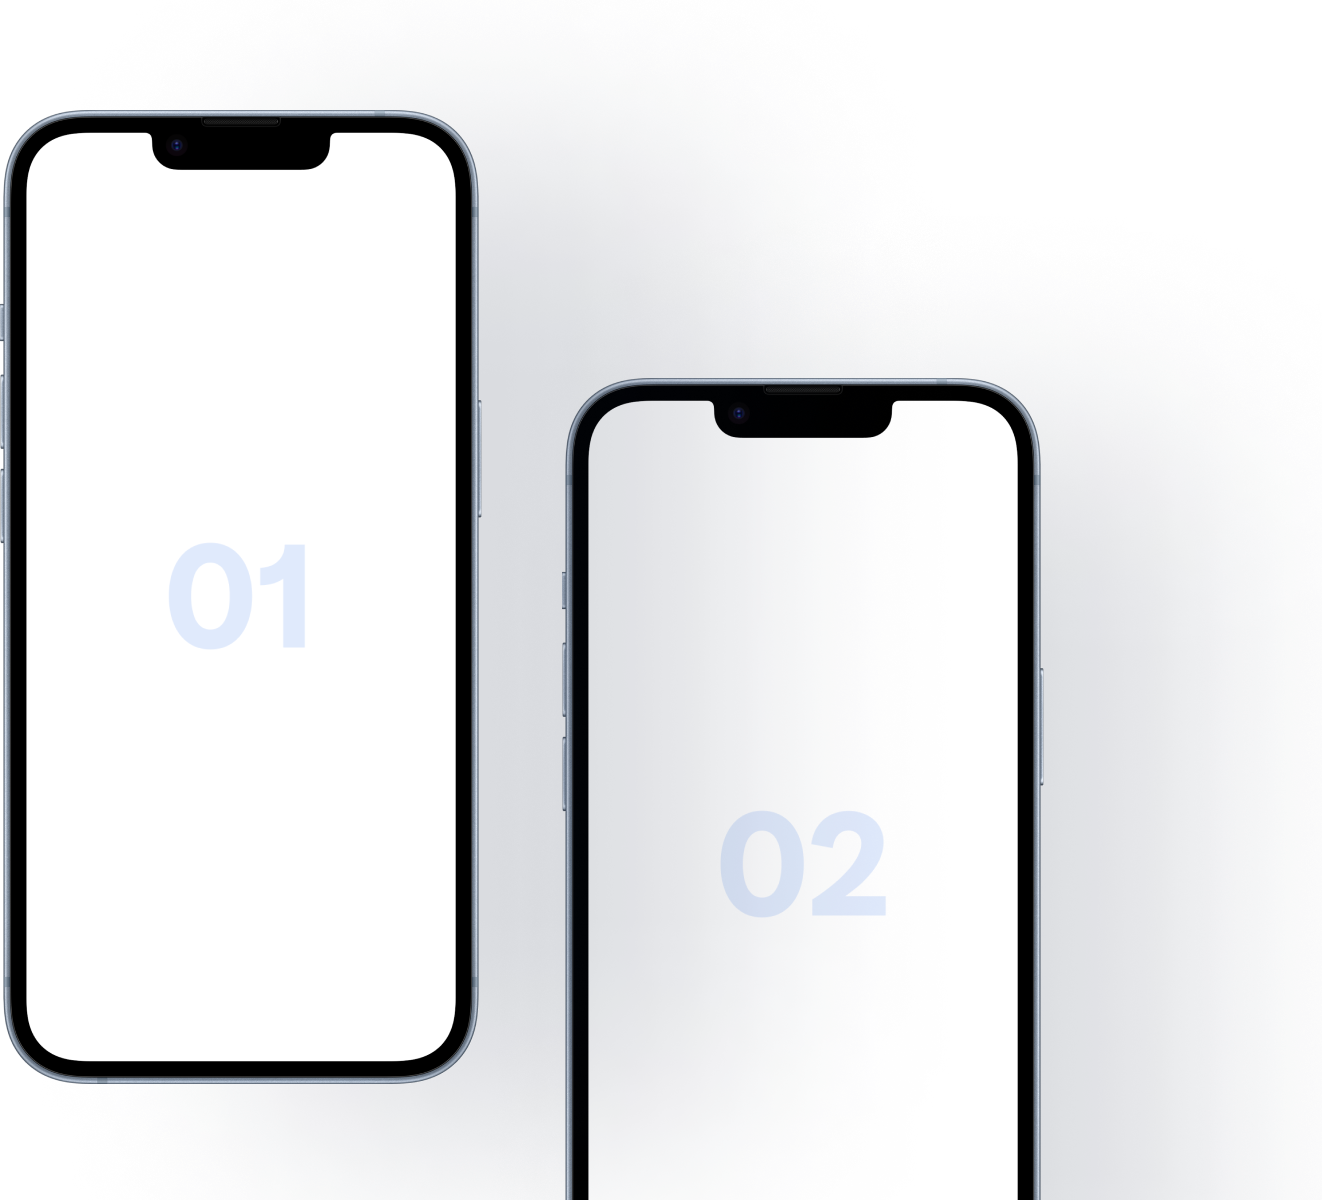
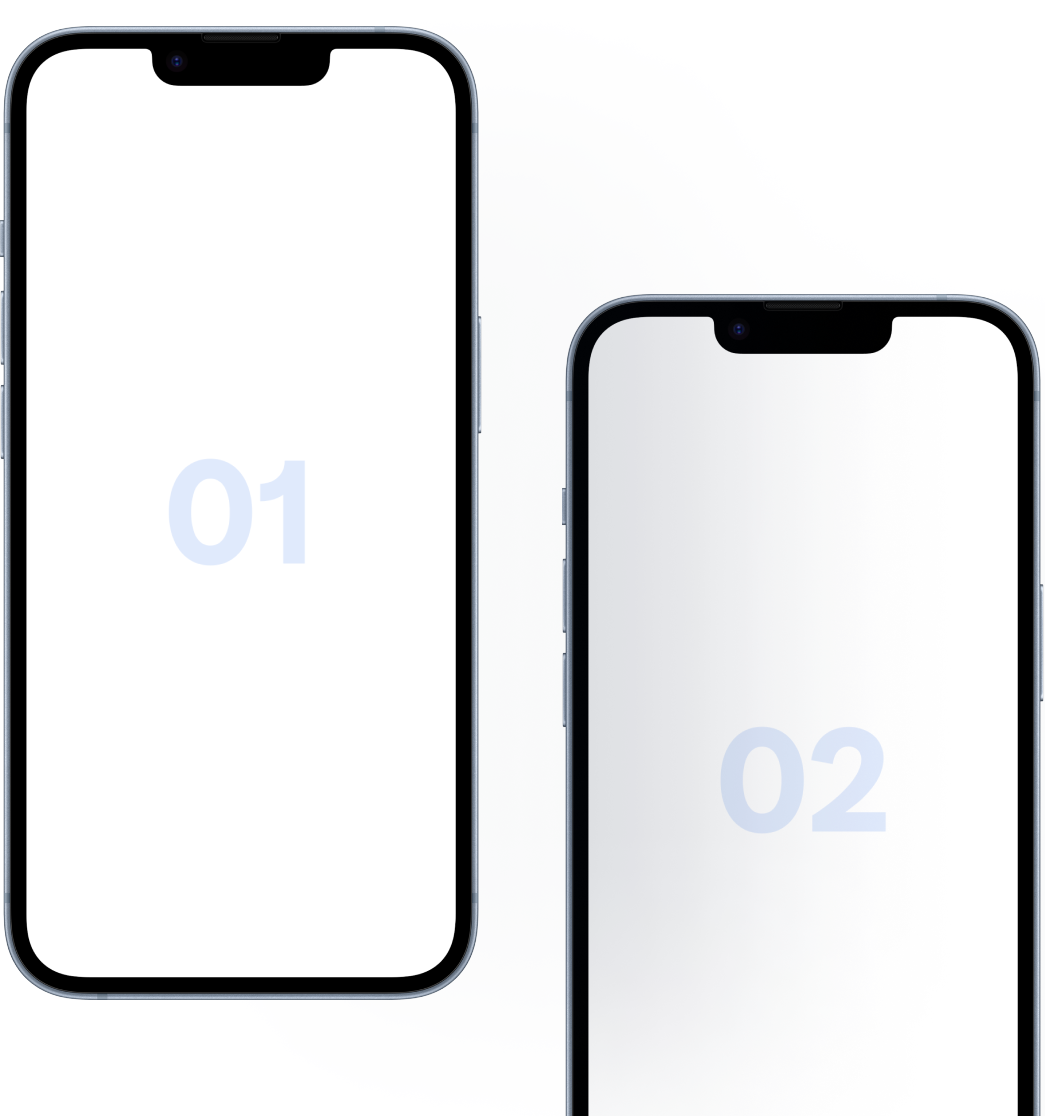
Login

Changed region(s): [[0.0, 0.0, 1.0, 1.0], [0.1225, 0.3961, 0.3062, 0.5484]]

diff --git a/src/pages/Auth/Login.jsx b/src/pages/Auth/Login.jsx
@@ -1,6 +1,83 @@
+import { useState } from "react";
+import { FaEye, FaEyeSlash } from "react-icons/fa";
+import { Link } from "react-router-dom";
+
 const Login = () => {
+
+  const [email, setEmail] = useState('');
+  const [password, setPassword] = useState('');
+  const [confirmPassword, setConfirmPassword] = useState('');
+  const [errors, setErrors] = useState('');
+  const [showPassword, setShowPassword] = useState(false);
+
+  const togglePasswordVisibility = () => {
+    setShowPassword(!showPassword);
+  };
+
+
   return (
-    <div>Login</div>
+    <div className="w-screen  flex p-3 h-screen min-h-[600px] overflow-hidden">
+      <div className="relative hidden md:flex md:w-1/3 h-full  bg-gray-200 rounded-xl overflow-hidden">
+        <h1 className="font-bold text-xl absolute top-5 left-6">core.</h1>
+        <img src="/assets/cards.png" alt="" className="absolute -bottom-28 left-[50%] -translate-x-1/2 rotate-90 w-[100%] max-w-[600px]" />
+      </div>
+      <div className="w-full md:w-2/3 flex flex-col items-center justify-center">
+        <h1 className="text-6xl font-bold">core.</h1>
+        <div className="mb-5">Please enter your details</div>
+        <form className="space-y-4 w-4/5 max-w-[400px]">
+          <div>
+            <label htmlFor="email" className="block text-sm font-medium text-gray-700">
+              Email
+            </label>
+            <input
+              type="email"
+              id="email"
+              value={email}
+              onChange={(e) => setEmail(e.target.value)}
+              className="mt-1 p-2 block w-full border border-gray-300 rounded-md shadow-sm focus:ring-indigo-500 focus:border-indigo-500 sm:text-sm"
+              placeholder="Enter your email"
+            />
+          </div>
+
+          <div className="relative">
+            <label htmlFor="password" className="block text-sm font-medium text-gray-700">
+              Password
+            </label>
+            <input
+              type={showPassword ? 'text' : 'password'}
+              id="password"
+              value={password}
+              onChange={(e) => setPassword(e.target.value)}
+              className="mt-1 p-2 block w-full border border-gray-300 rounded-md shadow-sm pr-10 focus:ring-indigo-500 focus:border-indigo-500 sm:text-sm"
+              placeholder="Enter your password"
+            />
+            {/* Show/Hide Password Icon (inside input box) */}
+            <button
+              type="button"
+              onClick={togglePasswordVisibility}
+              className="absolute h-max inset-y-0 right-0 flex items-center pr-3 focus:outline-none"
+            >
+              {showPassword ? <FaEyeSlash className="text-gray-500" /> : <FaEye className="text-gray-500" />}
+            </button>
+          </div>
+
+
+          {errors && (
+            <div className="text-red-600 text-sm">
+              {errors}
+            </div>
+          )}
+
+          <button
+            type="submit"
+            className="mt-6 w-full bg-black text-white p-3 rounded-md hover:bg-neutral-900 transition duration-200"
+          >
+            Sign Up
+          </button>
+          <div>Don't have an account yet? <Link className="text-green-600 font-bold" to={'/signup'}>Sign up.</Link></div>
+        </form>
+      </div>
+    </div>
   )
 }
 

diff --git a/src/pages/Auth/Signup.jsx b/src/pages/Auth/Signup.jsx
@@ -4,7 +4,6 @@ import { Link } from "react-router-dom";
 
 const Signup = () => {
 
-  const [username, setUsername] = useState('');
   const [email, setEmail] = useState('');
   const [password, setPassword] = useState('');
   const [confirmPassword, setConfirmPassword] = useState('');
@@ -19,26 +18,12 @@ const Signup = () => {
   return (
     <div className="w-screen  flex p-3 h-screen min-h-[600px] overflow-hidden">
       <div className="relative hidden md:flex md:w-1/3 h-full  bg-gray-200 rounded-xl overflow-hidden">
-        <h1 className="font-bold text-lg absolute top-5 left-6">core.</h1>
-        <img src="/assets/mockup.png" alt="" className="absolute bottom-0 w-[125%] max-w-[500px] left-10"/>
+        <h1 className="font-bold text-xl absolute top-5 left-6">core.</h1>
+        <img src="/assets/mockup.png" alt="" className="absolute bottom-0 w-[85%] max-w-[500px] left-[50%] -translate-x-1/2" />
       </div>
       <div className="w-full md:w-2/3 flex flex-col items-center justify-center">
         <h1 className="text-6xl font-bold mb-5">core.</h1>
         <form className="space-y-4 w-4/5 max-w-[400px]">
-          <div>
-            <label htmlFor="username" className="block text-sm font-medium text-gray-700">
-              Username
-            </label>
-            <input
-              type="text"
-              id="username"
-              value={username}
-              onChange={(e) => setUsername(e.target.value)}
-              className="mt-1 p-2 block w-full border border-gray-300 rounded-md shadow-sm focus:ring-indigo-500 focus:border-indigo-500 sm:text-sm"
-              placeholder="Enter your username"
-            />
-          </div>
-
           <div>
             <label htmlFor="email" className="block text-sm font-medium text-gray-700">
               Email

diff --git a/src/components/Navbar.jsx b/src/components/Navbar.jsx
@@ -1,0 +1,32 @@
+import React from 'react'
+import { NavLink } from 'react-router-dom'
+
+const Navbar = () => {
+  return (
+    <header className='py-4 w-full'>
+        <div className="wrapper max-w-[85%] mx-auto flex items-center justify-between">
+            <h1 className="text-4xl font-bold ">core.</h1>
+
+            <nav >
+                <ul className='flex items-center gap-4'>
+                    <NavLink to={'/'}>Home</NavLink>
+                    <NavLink to={'about'}>About</NavLink>
+                    <NavLink to={'contact'}>Contact</NavLink>
+                    <NavLink to={'termsofservice'}>Terms & Conditions</NavLink>
+                </ul>
+            </nav>
+
+            <div>
+                <a href="/signup">
+                    <button className='bg-black px-5 py-2.5 text-white font-semibold rounded-lg'>Get Started</button>
+                </a>
+                <a href="/signup">
+                    <button className='bg-none border-2 border-black ml-3 px-5 py-2.5 text-white font-semibold rounded-lg text-black'>Login</button>
+                </a>
+            </div>
+        </div>
+    </header>
+  )
+}
+
+export default Navbar

diff --git a/src/layout/AuthLayout.jsx b/src/layout/AuthLayout.jsx
@@ -2,12 +2,14 @@ import React from 'react'
 import { Routes, Route } from 'react-router-dom'
 import Signup from '../pages/Auth/Signup'
 import Login from '../pages/Auth/Login'
+import Verification from '../pages/Auth/Verification'
 
 const AuthLayout = () => {
   return (
     <Routes>
-        <Route path='/login' exact element={<Login />} />
-        <Route path='/signup' exact element={<Signup />} />
+        <Route path='login' exact element={<Login />} />
+        <Route path='signup' exact element={<Signup />} />
+        <Route path='verifyemail' exact element={<Verification />} />
     </Routes>
   )
 }

diff --git a/src/layout/RootLayout.jsx b/src/layout/RootLayout.jsx
@@ -1,0 +1,19 @@
+import { Route, Routes } from 'react-router-dom'
+import Home from '../pages/Home/Home'
+import Dashboard from '../pages/Dashboard/Dashboard'
+import Navbar from '../components/Navbar'
+
+const Layout = () => {
+  return (
+    <>
+      <Navbar />
+      <Routes>
+        <Route path='/' exact element={<Home />} />
+        {/* <Route path='/contact' exact element={<Contact /> } /> */}
+        <Route path='/dashboard' exact element={<Dashboard />} />
+      </Routes>
+    </>
+  )
+}
+
+export default Layout

diff --git a/src/App.jsx b/src/App.jsx
@@ -1,5 +1,5 @@
 import { BrowserRouter } from "react-router-dom";
-import Layout from "./layout/Layout";
+import Layout from "./layout/RootLayout";
 import AuthLayout from "./layout/AuthLayout";
 import "./global.css"
 
